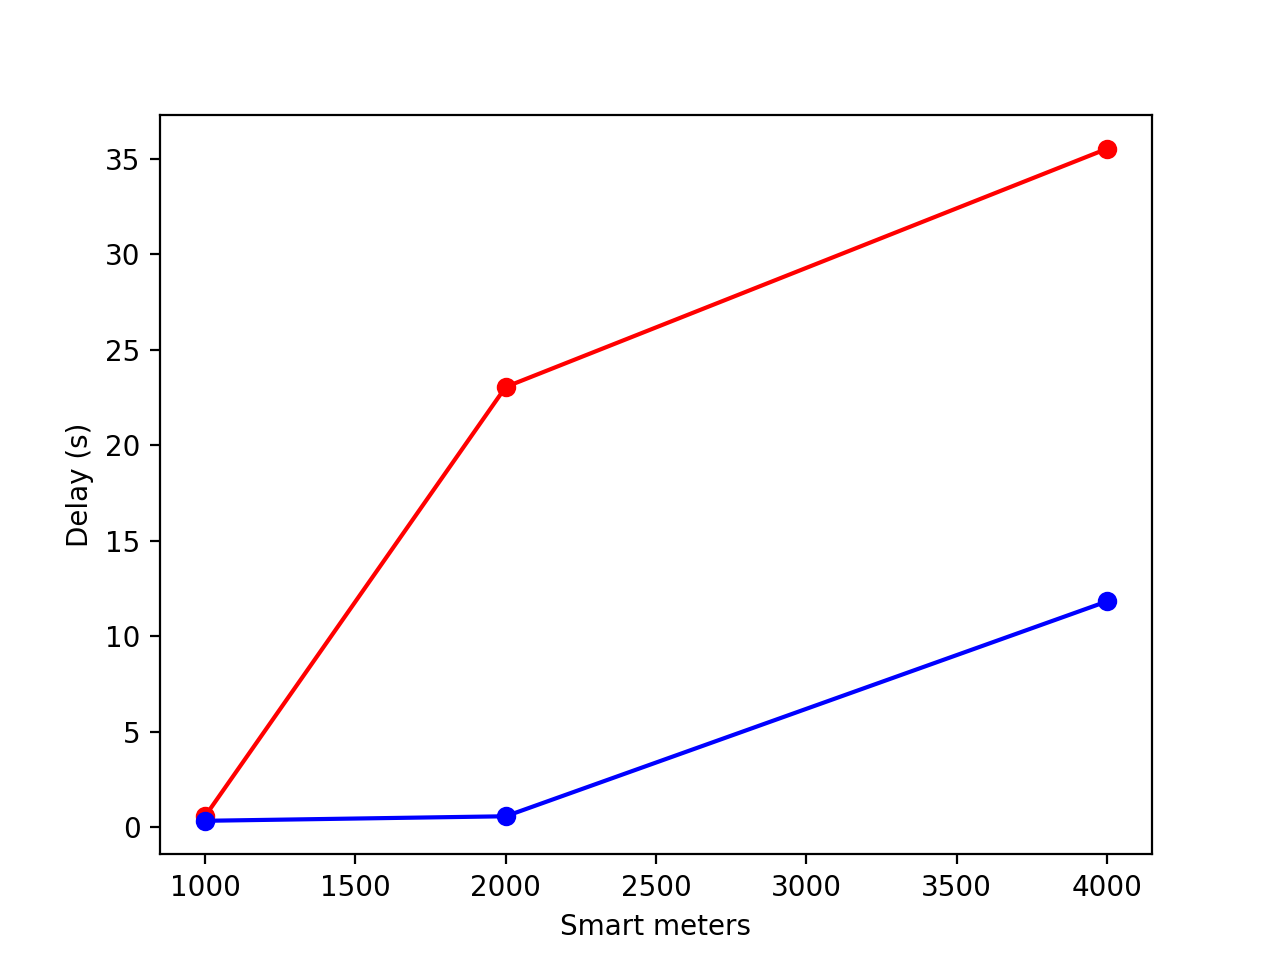
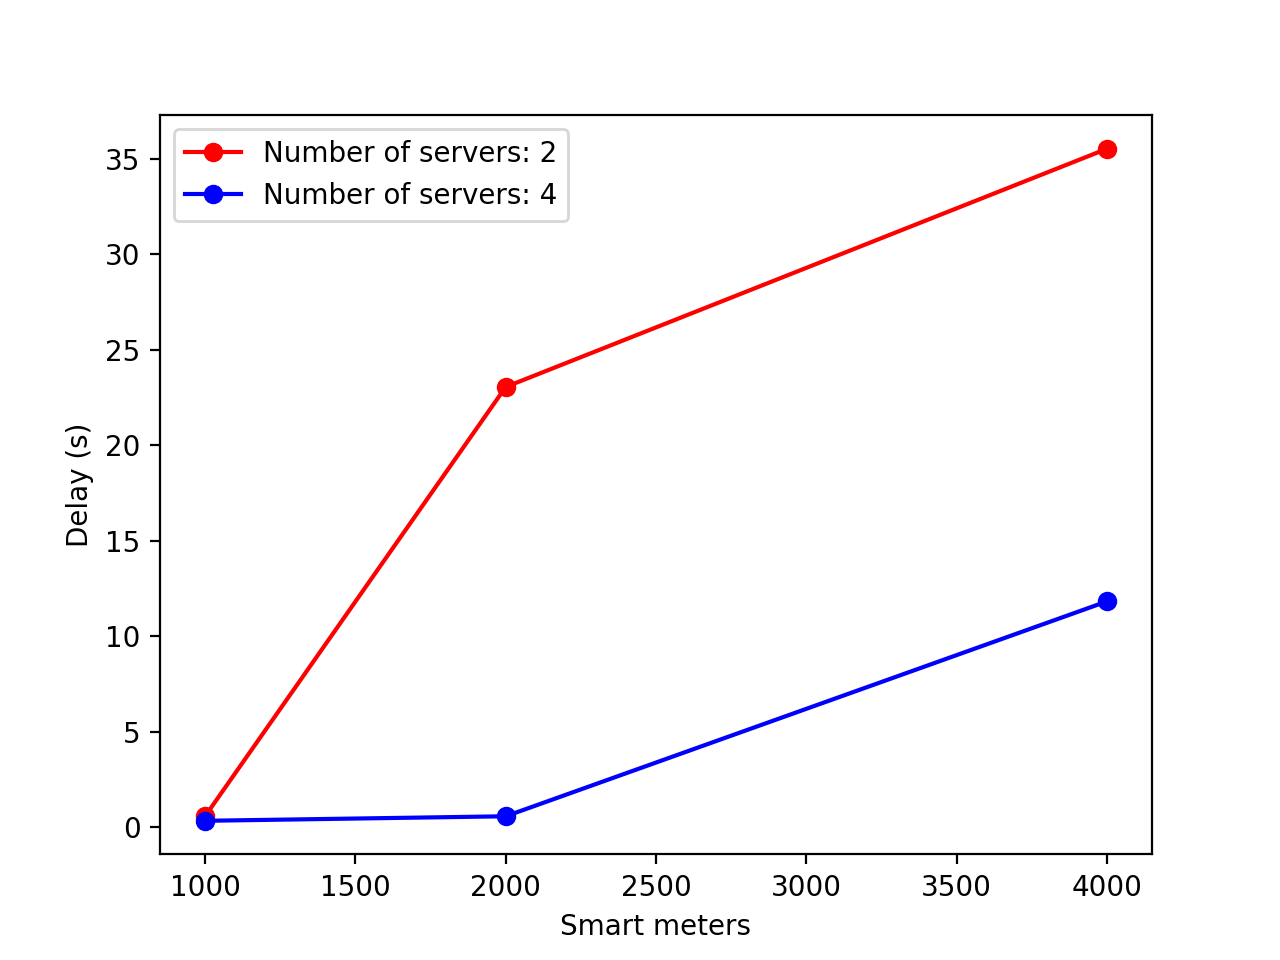
Added legend to plot for 1_4 (and a version without lines)

Changed region(s): [[0.125, 0.125, 0.4375, 0.2188]]

diff --git a/delays.py b/delays.py
@@ -10,7 +10,9 @@ stdev = [0.276, 12.908, 20.117, 0.138, 0.275, 6.466]
 plt.ylabel('Delay (s)')
 plt.xlabel('Smart meters')
 
-plt.plot([1000,2000,4000], mu[0:3], 'ro', label='Number of servers: 2')
-plt.plot([1000,2000,4000], mu[3:6], 'bo', label='Number of servers: 4')
+plt.plot([1000,2000,4000], mu[0:3], 'ro-', label='Number of servers: 2')
+plt.plot([1000,2000,4000], mu[3:6], 'bo-', label='Number of servers: 4')
+
+plt.legend()
 
 plt.show()
